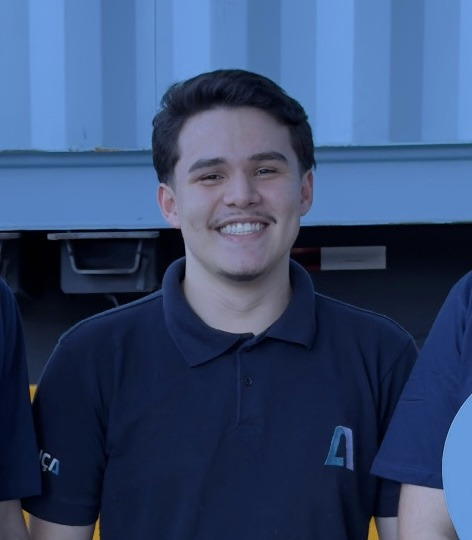
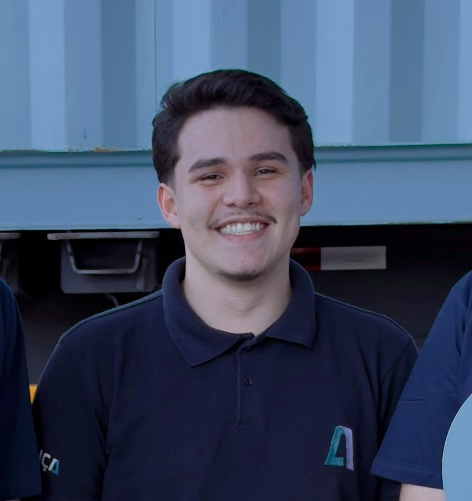
feat: atualiza paleta de cores para neon/preto, adiciona cargo de Assistente e ajusta foco para Automação e Dados

diff --git a/style.css b/style.css
@@ -1,32 +1,32 @@
 :root {
     /* Default Dark Theme Variables */
-    --bg-color: #0f172a;
-    --bg-color-secondary: #1e293b;
-    --text-color: #f8fafc;
-    --text-color-muted: #94a3b8;
-    --primary-color: #3b82f6;
-    --primary-hover: #2563eb;
-    --secondary-color: #0ea5e9;
-    --glass-bg: rgba(30, 41, 59, 0.7);
-    --glass-border: rgba(255, 255, 255, 0.1);
-    --timeline-color: #3b82f6;
-    --border-color: #334155;
-    --shadow-color: rgba(0, 0, 0, 0.3);
+    --bg-color: #0a0a0a;
+    --bg-color-secondary: #141414;
+    --text-color: #FFFFFF;
+    --text-color-muted: #a0a0a0;
+    --primary-color: #C8FF00;
+    --primary-hover: #b0e000;
+    --secondary-color: #e0ff66;
+    --glass-bg: rgba(20, 20, 20, 0.75);
+    --glass-border: rgba(200, 255, 0, 0.15);
+    --timeline-color: #C8FF00;
+    --border-color: rgba(200, 255, 0, 0.2);
+    --shadow-color: rgba(0, 0, 0, 0.5);
 }
 
 [data-theme="light"] {
-    --bg-color: #f8fafc;
-    --bg-color-secondary: #e2e8f0;
-    --text-color: #0f172a;
-    --text-color-muted: #475569;
-    --primary-color: #2563eb;
-    --primary-hover: #1d4ed8;
-    --secondary-color: #0284c7;
-    --glass-bg: rgba(255, 255, 255, 0.7);
-    --glass-border: rgba(0, 0, 0, 0.1);
-    --timeline-color: #2563eb;
-    --border-color: #cbd5e1;
-    --shadow-color: rgba(0, 0, 0, 0.1);
+    --bg-color: #FFFFFF;
+    --bg-color-secondary: #f0f0f0;
+    --text-color: #0a0a0a;
+    --text-color-muted: #555555;
+    --primary-color: #9abf00;
+    --primary-hover: #7a9900;
+    --secondary-color: #C8FF00;
+    --glass-bg: rgba(255, 255, 255, 0.8);
+    --glass-border: rgba(200, 255, 0, 0.2);
+    --timeline-color: #9abf00;
+    --border-color: rgba(200, 255, 0, 0.25);
+    --shadow-color: rgba(0, 0, 0, 0.08);
 }
 
 * {
@@ -79,14 +79,14 @@ body {
     width: 100%;
     z-index: 1000;
     padding: 20px 0;
-    background: rgba(15, 23, 42, 0.8);
+    background: rgba(10, 10, 10, 0.85);
     backdrop-filter: blur(10px);
     border-bottom: 1px solid var(--glass-border);
     transition: all 0.3s ease;
 }
 
 [data-theme="light"] .header {
-    background: rgba(248, 250, 252, 0.8);
+    background: rgba(255, 255, 255, 0.9);
 }
 
 .header.scrolled {
@@ -222,14 +222,14 @@ body {
 
 .btn-primary {
     background: var(--primary-color);
-    color: white;
-    box-shadow: 0 4px 15px rgba(59, 130, 246, 0.4);
+    color: #0a0a0a;
+    box-shadow: 0 4px 15px rgba(200, 255, 0, 0.3);
 }
 
 .btn-primary:hover {
     background: var(--primary-hover);
     transform: translateY(-2px);
-    box-shadow: 0 6px 20px rgba(59, 130, 246, 0.6);
+    box-shadow: 0 6px 20px rgba(200, 255, 0, 0.5);
 }
 
 .btn-secondary {
@@ -239,7 +239,7 @@ body {
 }
 
 .btn-secondary:hover {
-    background: rgba(59, 130, 246, 0.1);
+    background: rgba(200, 255, 0, 0.1);
     transform: translateY(-2px);
 }
 
@@ -362,7 +362,7 @@ body {
     position: absolute;
     width: 100%;
     height: 100%;
-    background: linear-gradient(135deg, rgba(59, 130, 246, 0.2), rgba(14, 165, 233, 0.2));
+    background: linear-gradient(135deg, rgba(200, 255, 0, 0.15), rgba(224, 255, 102, 0.15));
     border-radius: 30% 70% 70% 30% / 30% 30% 70% 70%;
     animation: morph 8s ease-in-out infinite;
     backdrop-filter: blur(5px);
@@ -386,7 +386,7 @@ body {
 .hero-icon {
     font-size: 8rem;
     color: var(--primary-color);
-    filter: drop-shadow(0 0 20px rgba(59, 130, 246, 0.5));
+    filter: drop-shadow(0 0 20px rgba(200, 255, 0, 0.5));
     animation: float 4s ease-in-out infinite;
 }
 
@@ -585,7 +585,7 @@ body {
 .timeline-content .date {
     display: inline-block;
     padding: 4px 10px;
-    background: rgba(59, 130, 246, 0.1);
+    background: rgba(200, 255, 0, 0.1);
     color: var(--primary-color);
     border-radius: 20px;
     font-size: 0.85rem;
@@ -726,7 +726,7 @@ body {
 .tag {
     font-size: 0.8rem;
     padding: 4px 10px;
-    background: rgba(59, 130, 246, 0.1);
+    background: rgba(200, 255, 0, 0.1);
     color: var(--primary-color);
     border-radius: 20px;
     font-weight: 500;
@@ -760,7 +760,7 @@ body {
 .contact-item i {
     width: 40px;
     height: 40px;
-    background: rgba(59, 130, 246, 0.1);
+    background: rgba(200, 255, 0, 0.1);
     color: var(--primary-color);
     border-radius: 50%;
     display: flex;
@@ -914,13 +914,13 @@ footer {
 
 @keyframes pulse-site {
     0% {
-        box-shadow: 0 0 0 0 rgba(59, 130, 246, 0.6);
+        box-shadow: 0 0 0 0 rgba(200, 255, 0, 0.5);
     }
     70% {
-        box-shadow: 0 0 0 15px rgba(59, 130, 246, 0);
+        box-shadow: 0 0 0 15px rgba(200, 255, 0, 0);
     }
     100% {
-        box-shadow: 0 0 0 0 rgba(59, 130, 246, 0);
+        box-shadow: 0 0 0 0 rgba(200, 255, 0, 0);
     }
 }
 

diff --git a/index.html b/index.html
@@ -7,7 +7,7 @@
     <meta http-equiv="Cache-Control" content="no-cache, no-store, must-revalidate">
     <meta http-equiv="Pragma" content="no-cache">
     <meta http-equiv="Expires" content="0">
-    <title data-i18n="page-title">Portfólio | Analista de Automação e Dados</title>
+    <title data-i18n="page-title">Portfólio | Automação e Dados</title>
     <link rel="stylesheet" href="style.css">
     <link href="https://fonts.googleapis.com/css2?family=Inter:wght@300;400;500;600;700&display=swap" rel="stylesheet">
     <link rel="stylesheet" href="https://cdnjs.cloudflare.com/ajax/libs/font-awesome/6.4.0/css/all.min.css">
@@ -54,8 +54,8 @@
         <section id="home" class="hero section">
             <div class="container hero-content">
                 <div class="hero-text">
-                    <h2 class="subtitle" data-i18n="hero-subtitle">Olá, eu sou um</h2>
-                    <h1 class="title" data-i18n="hero-title">Analista de Automação <br> e <span
+                    <h2 class="subtitle" data-i18n="hero-subtitle">Olá, eu trabalho com</h2>
+                    <h1 class="title" data-i18n="hero-title">Automação <br> e <span
                             class="highlight">Dados</span></h1>
                     <p class="description" data-i18n="hero-description">
                         Transformando processos manuais em soluções escaláveis e inteligência operacional com Power
@@ -121,13 +121,27 @@
                     <div class="experience-cards-container">
                         <!-- Card 1: Aliança -->
                         <div class="experience-card">
-                            <h4 class="company-name">ALIANÇA NAVEGAÇÃO E TRANSPORTES</h4>
+                            <h4 class="company-name">ALIANÇA NAVEGAÇÃO - A MAERSK COMPANY</h4>
                             <div class="experience-timeline">
                                 <div class="timeline-item">
                                     <div class="timeline-dot"></div>
                                     <div class="timeline-content">
+                                        <h4 data-i18n="exp-alianca-role2">Assistente</h4>
+                                        <span class="date" data-i18n="exp-alianca-date2">10/2026 - Atual</span>
+                                        <ul>
+                                            <li data-i18n="exp-alianca-t1">Atendimento ao cliente</li>
+                                            <li data-i18n="exp-alianca-t2">Automação com Power Automate</li>
+                                            <li data-i18n="exp-alianca-t3">Criação de Apps com Power Apps</li>
+                                            <li data-i18n="exp-alianca-t4">Criação e manutenção de SharePoint</li>
+                                        </ul>
+                                    </div>
+                                </div>
+
+                                <div class="timeline-item">
+                                    <div class="timeline-dot"></div>
+                                    <div class="timeline-content">
                                         <h4 data-i18n="exp-alianca-role">Estagiário</h4>
-                                        <span class="date" data-i18n="exp-alianca-date">04/2025 - Atual</span>
+                                        <span class="date" data-i18n="exp-alianca-date">04/2025 - 09/2026</span>
                                         <ul>
                                             <li data-i18n="exp-alianca-t1">Atendimento ao cliente</li>
                                             <li data-i18n="exp-alianca-t2">Automação com Power Automate</li>
@@ -253,7 +267,8 @@
                 </div>
 
                 <div class="skills-category" style="margin-top: 50px;">
-                    <h3 class="category-title"><i class="fas fa-laptop-code"></i> <span data-i18n="skills-software">Desenvolvimento de Software</span></h3>
+                    <h3 class="category-title"><i class="fas fa-laptop-code"></i> <span
+                            data-i18n="skills-software">Desenvolvimento de Software</span></h3>
                     <div class="skills-grid">
                         <div class="skill-card glass-card">
                             <i class="fab fa-js-square skill-icon" style="color: #F7DF1E;"></i>
@@ -472,7 +487,7 @@
         <span class="whatsapp-tooltip" data-i18n="whatsapp-tooltip">Fale comigo!</span>
     </a>
 
-    <script src="script.js?v=1.1"></script>
+    <script src="script.js?v=1.2"></script>
 </body>
 
 </html>

diff --git a/script.js b/script.js
@@ -29,16 +29,16 @@ document.addEventListener('DOMContentLoaded', () => {
 
     const translations = {
         'pt': {
-            'page-title': 'Portfólio | Desenvolvedor e Analista de Dados',
+            'page-title': 'Portfólio | Automação e Dados',
             'nav-home': 'Início',
             'nav-about': 'Sobre',
             'nav-career': 'Carreira',
             'nav-skills': 'Habilidades',
             'nav-projects': 'Projetos',
             'nav-contact': 'Contato',
-            'hero-subtitle': 'Olá, eu sou um',
-            'hero-title': 'Desenvolvedor de Software <br> e <span class="highlight">Analista de Dados</span>',
-            'hero-description': 'Criando soluções corporativas escaláveis com Python, JavaScript, Power Platform e construindo inteligência operacional com análise de dados.',
+            'hero-subtitle': 'Olá, eu trabalho com',
+            'hero-title': 'Automação <br> e <span class="highlight">Dados</span>',
+            'hero-description': 'Transformando processos manuais em soluções escaláveis e inteligência operacional com Power Platform, SQL e Python.',
             'btn-contact': 'Fale Comigo',
             'btn-projects': 'Ver Projetos',
             'about-title': 'Sobre Mim',
@@ -50,7 +50,9 @@ document.addEventListener('DOMContentLoaded', () => {
             'about-p5': 'Cursando Bacharelado em Sistemas de Informação, aplico conceitos acadêmicos diretamente em desafios reais de negócio. Possuo perfil analítico e orientado a resultados, atuando em projetos de ponta a ponta para entregar impacto mensurável e transformar necessidades de negócio em soluções tecnológicas eficientes.',
             'career-title': 'Carreira Profissional',
             'exp-alianca-role': 'Estagiário',
-            'exp-alianca-date': '04/2025 - Atual',
+            'exp-alianca-date': '04/2025 - 09/2026',
+            'exp-alianca-role2': 'Assistente',
+            'exp-alianca-date2': '10/2026 - Atual',
             'exp-alianca-t1': 'Desenvolvimento de Aplicações e Integração de APIs',
             'exp-alianca-t2': 'Arquitetura e Governança de Dados com Power Platform',
             'exp-alianca-t3': 'Automação de Processos e envio de notificações',
@@ -94,16 +96,16 @@ document.addEventListener('DOMContentLoaded', () => {
             'whatsapp-tooltip': 'Fale comigo!'
         },
         'en': {
-            'page-title': 'Portfolio | Developer & Data Analyst',
+            'page-title': 'Portfolio | Automation & Data',
             'nav-home': 'Home',
             'nav-about': 'About',
             'nav-career': 'Career',
             'nav-skills': 'Skills',
             'nav-projects': 'Projects',
             'nav-contact': 'Contact',
-            'hero-subtitle': "Hi, I'm a",
-            'hero-title': 'Software Developer <br> & <span class="highlight">Data Analyst</span>',
-            'hero-description': 'Creating scalable corporate solutions with Python, JavaScript, Power Platform, and building operational intelligence through data analysis.',
+            'hero-subtitle': "Hi, I work with",
+            'hero-title': 'Automation <br> & <span class="highlight">Data</span>',
+            'hero-description': 'Transforming manual processes into scalable solutions and operational intelligence with Power Platform, SQL, and Python.',
             'btn-contact': 'Get in Touch',
             'btn-projects': 'View Projects',
             'about-title': 'About Me',
@@ -115,7 +117,9 @@ document.addEventListener('DOMContentLoaded', () => {
             'about-p5': 'Undergraduate in Information Systems, applying academic concepts directly to real business challenges. I have an analytical and results-oriented profile, working on end-to-end projects to deliver measurable impact and transform business needs into efficient technological solutions.',
             'career-title': 'Professional Career',
             'exp-alianca-role': 'Intern',
-            'exp-alianca-date': '04/2025 - Present',
+            'exp-alianca-date': '04/2025 - 09/2026',
+            'exp-alianca-role2': 'Assistant',
+            'exp-alianca-date2': '10/2026 - Present',
             'exp-alianca-t1': 'Application Development and API Integration',
             'exp-alianca-t2': 'Data Architecture and Governance with Power Platform',
             'exp-alianca-t3': 'Process Automation and notification dispatch',
